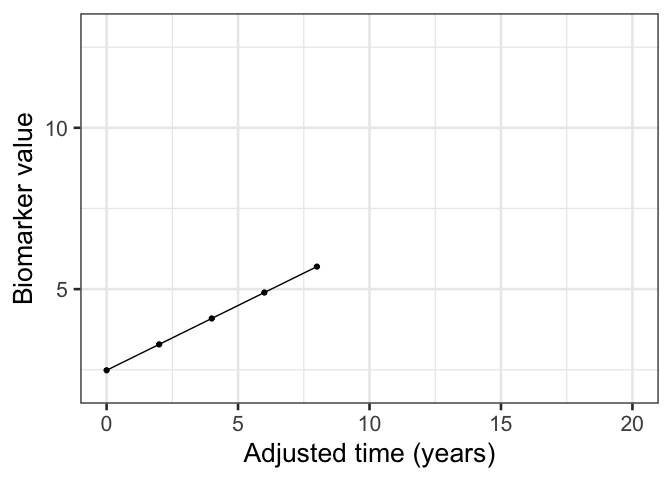
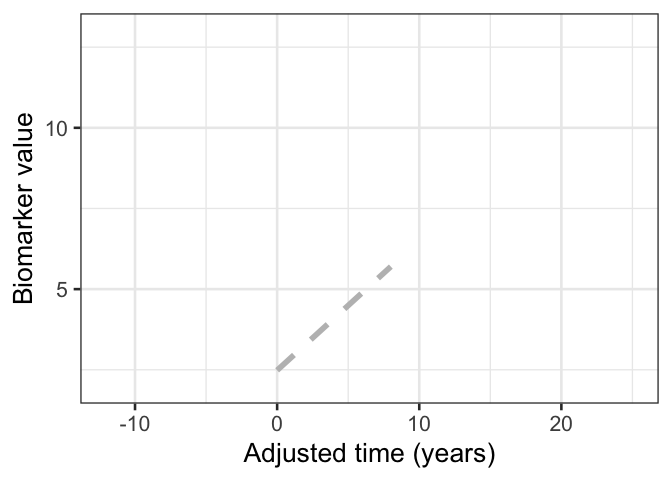
docs: add sila_estimate examples

diff --git a/README.md b/README.md
@@ -26,7 +26,8 @@ devtools::install_github("bilgelm/silaR")
 ## Example
 
 As a simple example, we illustrate how to run ILLA without smoothing in
-a dataset consisting of two individuals.
+a dataset consisting of two subjects, and then how to localize these two
+subjects on the estimated trajectory.
 
 ``` r
 library(silaR)
@@ -56,14 +57,17 @@ res <- illa(df, dt = 2, val0 = 2, maxi = 100, skern = 0)
 ``` r
 library(ggplot2)
 
-ggplot(df, aes(x = age, y = val, group = subid)) +
+df$Subject <- factor(df$subid)
+
+ggplot(df, aes(x = age, y = val, group = Subject, color = Subject)) +
   geom_point() +
   geom_line() +
   xlim(c(50, 70)) +
   ylim(c(2, 13)) +
   xlab("Age (years)") +
   ylab("Biomarker value") +
-  theme_bw(base_size = 20)
+  theme_bw(base_size = 20) +
+  theme(legend.position = "inside", legend.position.inside = c(.15, .8))
 ```
 
 <div class="figure">
@@ -77,10 +81,10 @@ Figure 1. Observed longitudinal biomarker data versus age.
 
 ``` r
 
+adtime_lims <- c(-12, 25)
 ggplot(res$tout, aes(x = adtime, y = val)) +
-  geom_point() +
-  geom_line() +
-  xlim(c(0, 20)) +
+  geom_line(linewidth = 2, color = "gray", linetype = "dashed") +
+  xlim(adtime_lims) +
   ylim(c(2, 13)) +
   xlab("Adjusted time (years)") +
   ylab("Biomarker value") +
@@ -92,6 +96,109 @@ ggplot(res$tout, aes(x = adtime, y = val)) +
 <img src="man/figures/README-exampleplot-2.png" alt="Figure 2. Estimated biomarker data as a function of aligned time." width="50%" />
 <p class="caption">
 Figure 2. Estimated biomarker data as a function of aligned time.
+</p>
+
+</div>
+
+We can now estimate the time shift for each subject by projecting their
+data onto the estimated trajectory.
+
+``` r
+# run SILA estimate
+res_estimate_last <- sila_estimate(res$tout, df)
+
+ggplot(res_estimate_last, aes(x = estdtt0, y = val, color = Subject)) +
+  geom_point() +
+  geom_line(aes(group = Subject)) +
+  geom_line(
+    data = res$tout,
+    aes(x = adtime, y = val),
+    linewidth = 2,
+    color = "gray",
+    linetype = "dashed"
+  ) +
+  xlim(adtime_lims) +
+  ylim(c(2, 13)) +
+  xlab("Adjusted time (years)") +
+  ylab("Biomarker value") +
+  ggtitle("Align using last visit") +
+  theme_bw(base_size = 20) +
+  theme(legend.position = "inside", legend.position.inside = c(.15, .8))
+```
+
+<div class="figure">
+
+<img src="man/figures/README-silaestimateplot-1.png" alt="Figure 3a. Alignment using last visit. Observed value at last visit intersects the estimated (extrapolated) trajectory shown in gray." width="33%" />
+<p class="caption">
+Figure 3a. Alignment using last visit. Observed value at last visit
+intersects the estimated (extrapolated) trajectory shown in gray.
+</p>
+
+</div>
+
+``` r
+
+res_estimate_first <- sila_estimate(res$tout, df, align_event = "first")
+
+ggplot(res_estimate_first, aes(x = estdtt0, y = val, color = Subject)) +
+  geom_point() +
+  geom_line(aes(group = Subject)) +
+  geom_line(
+    data = res$tout,
+    aes(x = adtime, y = val),
+    linewidth = 2,
+    color = "gray",
+    linetype = "dashed"
+  ) +
+  xlim(adtime_lims) +
+  ylim(c(2, 13)) +
+  xlab("Adjusted time (years)") +
+  ylab("Biomarker value") +
+  ggtitle("Align using first visit") +
+  theme_bw(base_size = 20) +
+  theme(legend.position = "inside", legend.position.inside = c(.15, .8))
+```
+
+<div class="figure">
+
+<img src="man/figures/README-silaestimateplot-2.png" alt="Figure 3b. Alignment using first visit. Observed value at first visit intersects the estimated (extrapolated) trajectory shown in gray." width="33%" />
+<p class="caption">
+Figure 3b. Alignment using first visit. Observed value at first visit
+intersects the estimated (extrapolated) trajectory shown in gray.
+</p>
+
+</div>
+
+``` r
+
+res_estimate_all <- sila_estimate(res$tout, df, align_event = "all")
+
+ggplot(res_estimate_all, aes(x = estdtt0, y = val, color = Subject)) +
+  geom_point() +
+  geom_line(aes(group = Subject)) +
+  geom_line(
+    data = res$tout,
+    aes(x = adtime, y = val),
+    linewidth = 2,
+    color = "gray",
+    linetype = "dashed"
+  ) +
+  xlim(adtime_lims) +
+  ylim(c(2, 13)) +
+  xlab("Adjusted time (years)") +
+  ylab("Biomarker value") +
+  ggtitle("Align using all visits") +
+  theme_bw(base_size = 20) +
+  theme(legend.position = "inside", legend.position.inside = c(.15, .8))
+```
+
+<div class="figure">
+
+<img src="man/figures/README-silaestimateplot-3.png" alt="Figure 3c. Alignment using all visits. Each subject is shifted such that the sum of squared errors with the estimated (extrapolated) trajectory (shown in gray) is minimized." width="33%" />
+<p class="caption">
+Figure 3c. Alignment using all visits. Each subject is shifted such that
+the sum of squared errors with the estimated (extrapolated) trajectory
+(shown in gray) is minimized.
 </p>
 
 </div>
